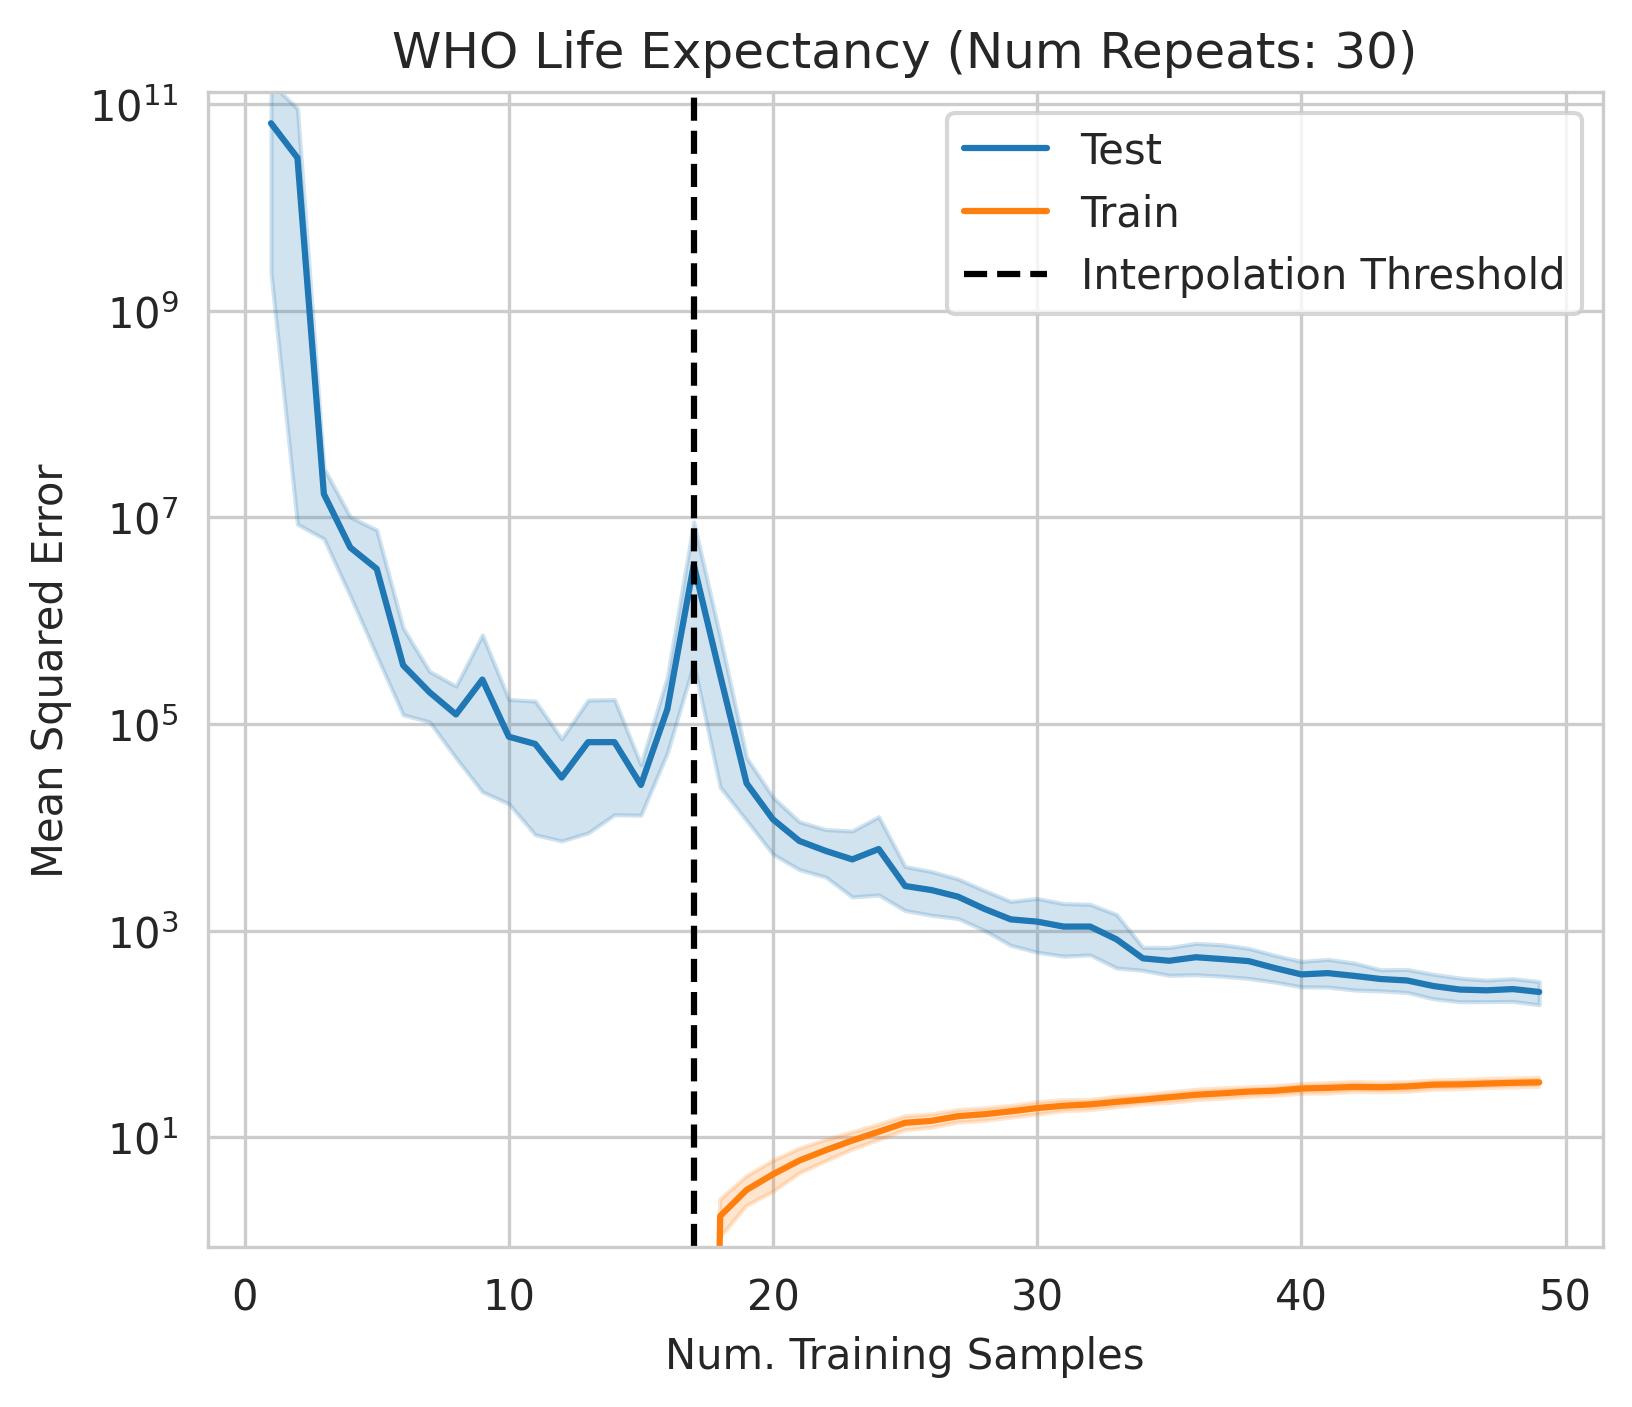
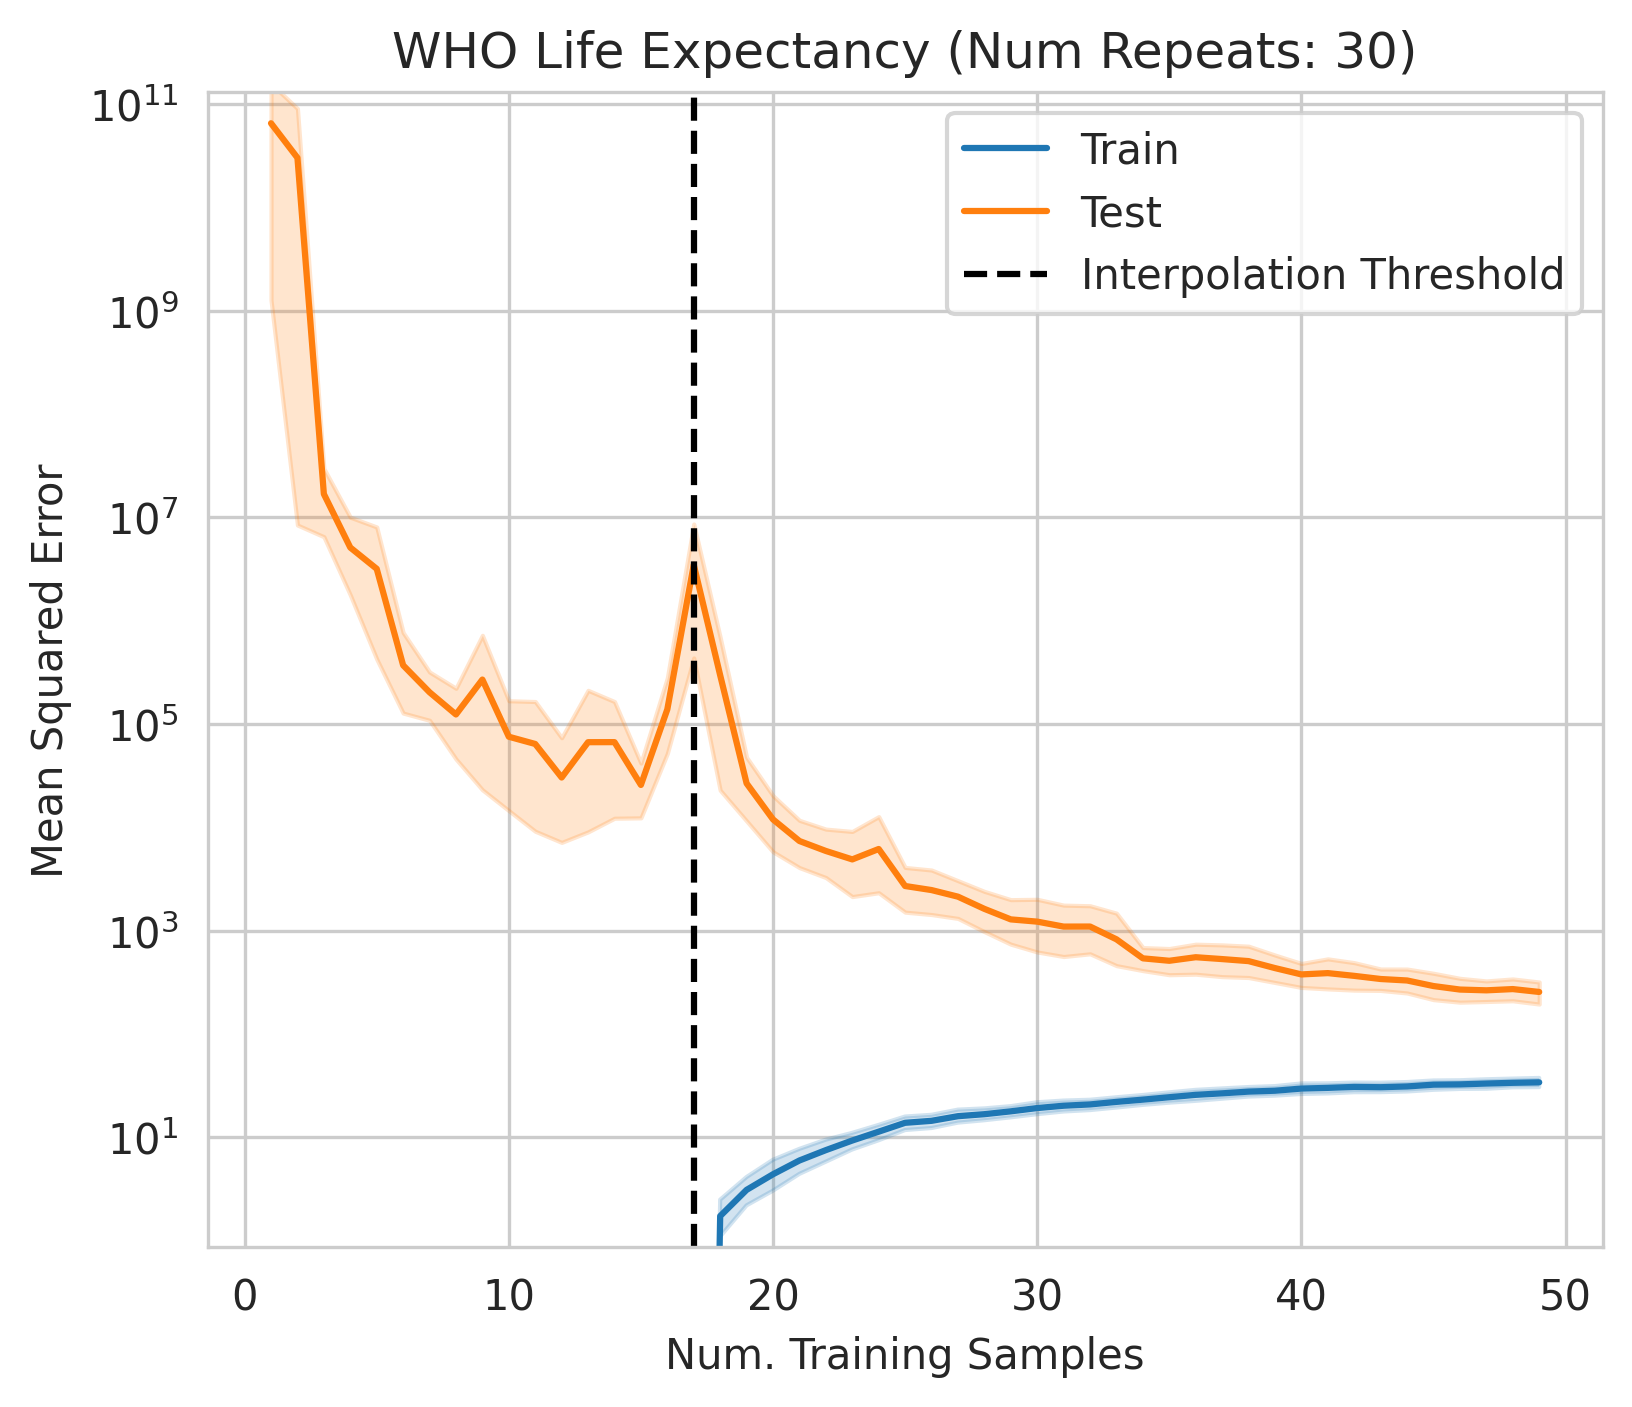
Switched eigenvalue to singular value

Changed region(s): [[0.1562, 0.0611, 0.9375, 0.7335], [0.4375, 0.764, 0.9375, 0.8863], [0.6562, 0.0917, 0.7188, 0.1834]]

diff --git a/real_data.py b/real_data.py
@@ -84,9 +84,9 @@ for dataset_name, dataset_fn in regression_datasets:
                 shuffle=True)
 
             regr.fit(X_train, y_train)
-            min_eigenvalue = np.square(np.min(np.linalg.svd(X_train,
-                                                            full_matrices=False,
-                                                            compute_uv=False)))
+            min_singular_value = np.min(np.linalg.svd(X_train,
+                                                      full_matrices=False,
+                                                      compute_uv=False))
             y_train_pred = regr.predict(X_train)
             train_mse = mean_squared_error(y_train, y_train_pred)
             y_test_pred = regr.predict(X_test)
@@ -98,7 +98,7 @@ for dataset_name, dataset_fn in regression_datasets:
                 'Train MSE': train_mse,
                 'Test MSE': test_mse,
                 'Repeat Index': repeat_idx,
-                'Least Informative Eigenvalue': min_eigenvalue,
+                'Smallest Non-Zero Singular Value': min_singular_value,
             })
 
     dataset_loss_df = pd.DataFrame(dataset_loss_df)
@@ -109,14 +109,14 @@ for dataset_name, dataset_fn in regression_datasets:
     sns.lineplot(
         data=dataset_loss_df,
         x='Subset Size',
-        y='Test MSE',
-        label='Test',
+        y='Train MSE',
+        label='Train',
     )
     sns.lineplot(
         data=dataset_loss_df,
         x='Subset Size',
-        y='Train MSE',
-        label='Train',
+        y='Test MSE',
+        label='Test',
     )
     plt.xlabel('Num. Training Samples')
     plt.ylabel('Mean Squared Error')
@@ -139,16 +139,17 @@ for dataset_name, dataset_fn in regression_datasets:
     sns.lineplot(
         data=dataset_loss_df,
         x='Subset Size',
-        y='Least Informative Eigenvalue'
+        y='Smallest Non-Zero Singular Value',
+        label='Train',
     )
     plt.xlabel('Num. Training Samples')
-    plt.ylabel('Least Informative Eigenvalue\nof ' + r'$X^T X$ (or equiv. $X X^T$)')
+    plt.ylabel('Smallest Non-Zero Singular\nValue of Training Features ' + r'$X$')
     plt.axvline(x=X.shape[1], color='black', linestyle='--', label='Interpolation Threshold')
     plt.title(f'{dataset_name} (Num Repeats: {num_repeats})')
     plt.yscale('log')
     plt.legend()
     plt.savefig(os.path.join(results_dir,
-                             f'least_informative_eigenvalue_dataset={dataset_name}'),
+                             f'least_informative_singular_value_dataset={dataset_name}'),
                 bbox_inches='tight',
                 dpi=300)
     plt.show()
